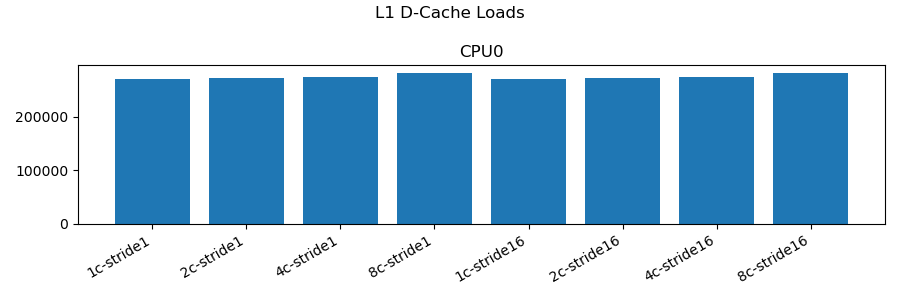
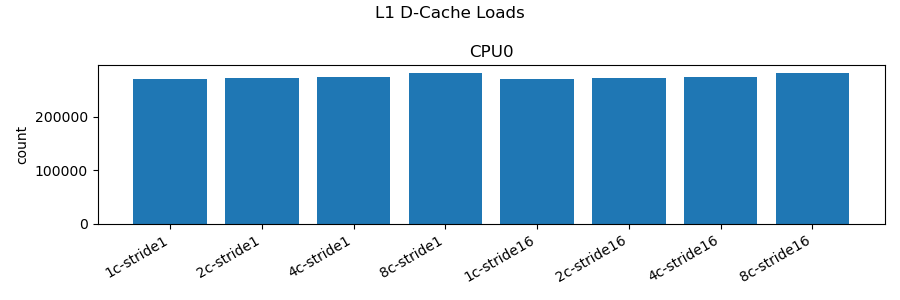
misc: add y-axis labels

diff --git a/scrape-stats.py b/scrape-stats.py
@@ -47,7 +47,8 @@ plot_list = [
         'subplots' : [
             {
                 'title': 'CPU0',
-                're': r'system.cpu[0]*.cpi\s+(\S+)'
+                're': r'system.cpu[0]*.cpi\s+(\S+)',
+                'y-label': 'CPI'
             }
         ]
     },
@@ -57,7 +58,8 @@ plot_list = [
         'subplots' : [
             {
                 'title': 'CPU0',
-                're': r'system.cpu[0]*.numCycles\s+(\S+)'
+                're': r'system.cpu[0]*.numCycles\s+(\S+)',
+                'y-label': 'cycles'
             }
         ]
     },
@@ -67,7 +69,8 @@ plot_list = [
         'subplots' : [
             {
                 'title': 'CPU0',
-                're': r'system.cpu[0]*.l1d.inTransLatHist.Load::total\s+(\S+)'
+                're': r'system.cpu[0]*.l1d.inTransLatHist.Load::total\s+(\S+)',
+                'y-label': 'count'
             }
         ]
     },
@@ -75,23 +78,17 @@ plot_list = [
         'title': 'CPU0 L1 D-Cache Snoop Traffic',
         'filename': 'l1-traffic.png',
         'subplots' : [
-            # {
-            #     'title': 'Load',
-            #     're': r'system\.cpu[0]*\.l1d\.inTransLatHist\.Load::total\s+(\S+)'
-            # },
-            # {
-            #     'title': 'Store',
-            #     're': r'system\.cpu[0]*\.l1d\.inTransLatHist\.Store::total\s+(\S+)'
-            # },
             {
                 'title': 'SnpCleanInvalid',
                 'y-scale': 'log',
-                're': r'system\.cpu[0]*\.l1d\.inTransLatHist\.SnpCleanInvalid::total\s+(\S+)'
+                're': r'system\.cpu[0]*\.l1d\.inTransLatHist\.SnpCleanInvalid::total\s+(\S+)',
+                'y-label': 'count'
             },
             {
                 'title': 'SnpShared',
                 'y-scale': 'log',
-                're': r'system\.cpu[0]*\.l1d\.inTransLatHist\.SnpShared::total\s+(\S+)'
+                're': r'system\.cpu[0]*\.l1d\.inTransLatHist\.SnpShared::total\s+(\S+)',
+                'y-label': 'count'
             }
         ]
     },
@@ -102,12 +99,14 @@ plot_list = [
             {
                 'title': 'SnpCleanInvalid',
                 'y-scale': 'log',
-                're': r'system\.cpu[0]*\.l2\.inTransLatHist\.SnpCleanInvalid::total\s+(\S+)'
+                're': r'system\.cpu[0]*\.l2\.inTransLatHist\.SnpCleanInvalid::total\s+(\S+)',
+                'y-label': 'count'
             },
             {
                 'title': 'SnpSharedFwd',
                 'y-scale': 'log',
-                're': r'system\.cpu[0]*\.l2\.inTransLatHist\.SnpSharedFwd::total\s+(\S+)'
+                're': r'system\.cpu[0]*\.l2\.inTransLatHist\.SnpSharedFwd::total\s+(\S+)',
+                'y-label': 'count'
             }
         ]
     },
@@ -117,11 +116,13 @@ plot_list = [
         'subplots' : [
             {
                 'title': 'HNF0',
-                're': r'system\.ruby\.hnf0\.cntrl\.inTransLatHist\.ReadShared::samples\s+(\S+)'
+                're': r'system\.ruby\.hnf0\.cntrl\.inTransLatHist\.ReadShared::samples\s+(\S+)',
+                'y-label': 'count'
             },
             {
                 'title': 'HNF1',
-                're': r'system\.ruby\.hnf1\.cntrl\.inTransLatHist\.ReadShared::samples\s+(\S+)'
+                're': r'system\.ruby\.hnf1\.cntrl\.inTransLatHist\.ReadShared::samples\s+(\S+)',
+                'y-label': 'count'
             }
         ]
     },
@@ -131,11 +132,13 @@ plot_list = [
         'subplots' : [
             {
                 'title': 'HNF0',
-                're': r'system\.ruby\.hnf0\.cntrl\.inTransLatHist\.ReadUnique_PoC::samples\s+(\S+)'
+                're': r'system\.ruby\.hnf0\.cntrl\.inTransLatHist\.ReadUnique_PoC::samples\s+(\S+)',
+                'y-label': 'count'
             },
             {
                 'title': 'HNF1',
-                're': r'system\.ruby\.hnf1\.cntrl\.inTransLatHist\.ReadUnique_PoC::samples\s+(\S+)'
+                're': r'system\.ruby\.hnf1\.cntrl\.inTransLatHist\.ReadUnique_PoC::samples\s+(\S+)',
+                'y-label': 'count'
             }
         ]
     },
@@ -145,11 +148,13 @@ plot_list = [
         'subplots' : [
             {
                 'title': 'HNF0',
-                're': r'system\.ruby\.hnf0\.cntrl\.inTransLatHist\.CleanUnique::samples\s+(\S+)'
+                're': r'system\.ruby\.hnf0\.cntrl\.inTransLatHist\.CleanUnique::samples\s+(\S+)',
+                'y-label': 'count'
             },
             {
                 'title': 'HNF1',
-                're': r'system\.ruby\.hnf1\.cntrl\.inTransLatHist\.CleanUnique::samples\s+(\S+)'
+                're': r'system\.ruby\.hnf1\.cntrl\.inTransLatHist\.CleanUnique::samples\s+(\S+)',
+                'y-label': 'count'
             }
         ]
     }
@@ -224,6 +229,8 @@ def make_plot(plot, outdir):
             ax.set_yscale(sp['y-scale'])
         if 'x-scale' in sp:
             ax.set_xscale(sp['x-scale'])
+        if 'y-label' in sp:
+            plt.ylabel(sp['y-label'])
         plt.setp(ax.get_xticklabels(), rotation=30, horizontalalignment='right')
         col_idx=col_idx+1
     
